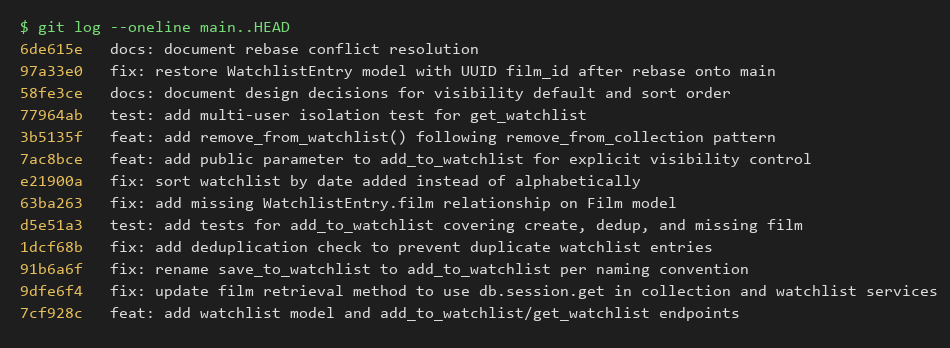
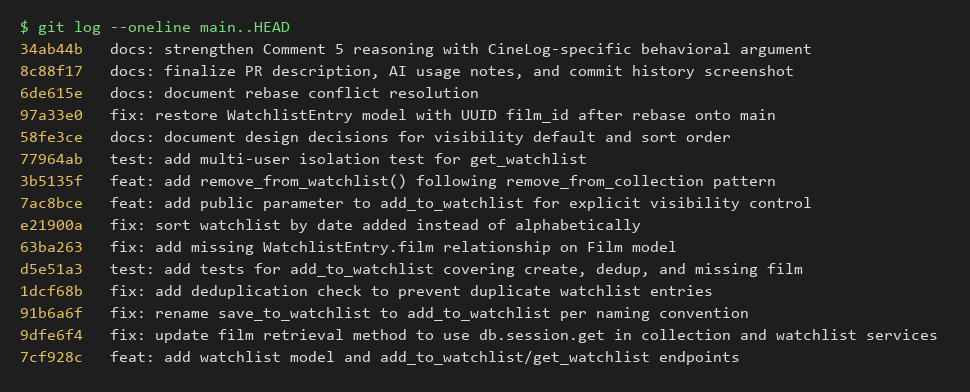
docs: refresh commit history screenshot

Changed region(s): [[0.0, 0.0575, 1.0, 0.9483]]

diff --git a/pr-response.md b/pr-response.md
@@ -57,7 +57,7 @@ That said, the stronger *documentation* argument (as opposed to the behavioral o
 
 ## Commit History
 
-`git log --oneline main..HEAD` on `feature/watchlist` after the interactive rebase — 13 commits, all conventional format, no merge commits:
+`git log --oneline main..HEAD` on `feature/watchlist` after the interactive rebase — all conventional format, no merge commits (a couple of later `docs:` commits, including this screenshot update itself, land after the screenshot was taken and so aren't pictured):
 
 ![git log --oneline showing 13 conventional commits](docs/git-log-screenshot.png)
 
